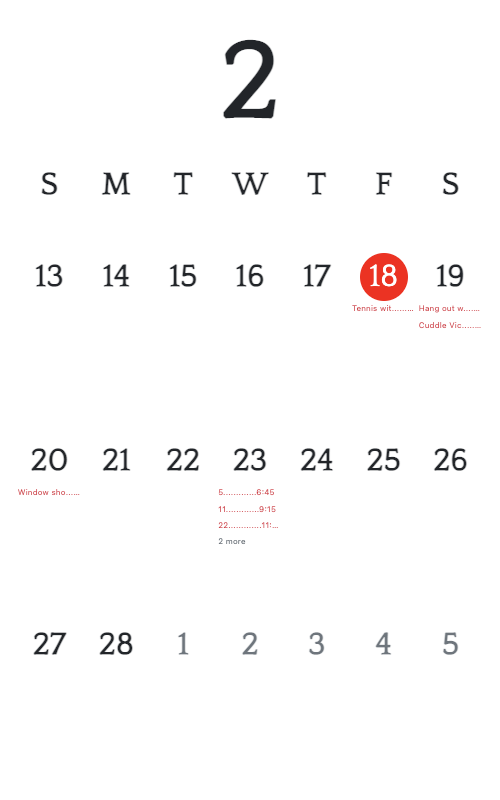
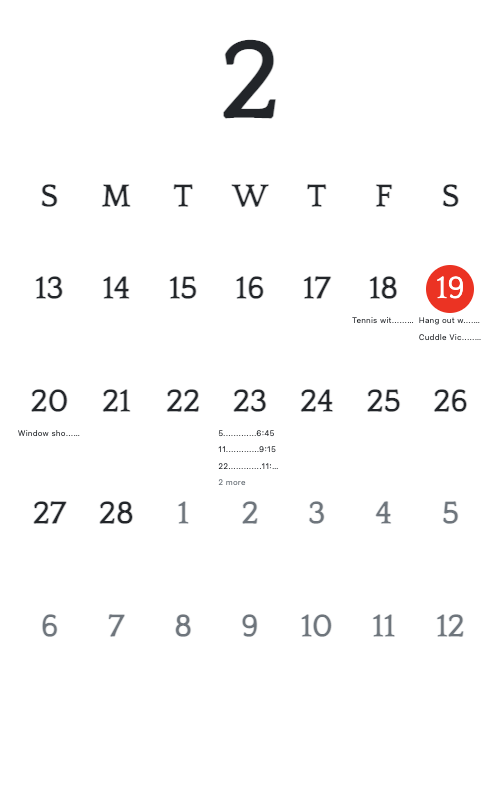
remove shadow

diff --git a/render/calendar.html b/render/calendar.html
@@ -6,7 +6,7 @@
 <body>
 <div class="container p-0 m-0">
     <!-- Calendar -->
-    <div class="calendar shadow bg-white p-3">
+    <div class="calendar bg-white p-3">
         <!-- Month -->
         <div class="align-items-center text-center"><h3 class="month font-weight-bold mb-0 text-uppercase">2</h3>
         </div>
@@ -38,17 +38,17 @@
                 <div class="date">17</div>
             </li>
             <li>
-                <div class="datecircle">18</div>
-                <div class="event text-danger">Tennis wit.............17:00</div>
+                <div class="date">18</div>
+                <div class="event">Tennis wit.............17:00</div>
             </li>
             <li>
-                <div class="date">19</div>
-                <div class="event text-danger">Hang out w.............10:00</div>
-                <div class="event text-danger">Cuddle Vic.............15:00</div>
+                <div class="datecircle">19</div>
+                <div class="event">Hang out w.............10:00</div>
+                <div class="event">Cuddle Vic.............15:00</div>
             </li>
             <li>
                 <div class="date">20</div>
-                <div class="event text-danger">Window sho.............11:00</div>
+                <div class="event">Window sho.............11:00</div>
             </li>
             <li>
                 <div class="date">21</div>
@@ -58,9 +58,9 @@
             </li>
             <li>
                 <div class="date">23</div>
-                <div class="event text-danger">5.............6:45</div>
-                <div class="event text-danger">11.............9:15</div>
-                <div class="event text-danger">22.............11:45</div>
+                <div class="event">5.............6:45</div>
+                <div class="event">11.............9:15</div>
+                <div class="event">22.............11:45</div>
                 <div class="event text-muted">2 more
             </li>
             <li>
@@ -113,27 +113,6 @@
             </li>
             <li>
                 <div class="date text-muted">12</div>
-            </li>
-            <li>
-                <div class="date text-muted">13</div>
-            </li>
-            <li>
-                <div class="date text-muted">14</div>
-            </li>
-            <li>
-                <div class="date text-muted">15</div>
-            </li>
-            <li>
-                <div class="date text-muted">16</div>
-            </li>
-            <li>
-                <div class="date text-muted">17</div>
-            </li>
-            <li>
-                <div class="date text-muted">18</div>
-            </li>
-            <li>
-                <div class="date text-muted">19</div>
             </li>
         </ol>
     </div>

diff --git a/render/calendar_template.html b/render/calendar_template.html
@@ -6,7 +6,7 @@
 <body>
 <div class="container p-0 m-0">
     <!-- Calendar -->
-    <div class="calendar shadow bg-white p-3">
+    <div class="calendar bg-white p-3">
         <!-- Month -->
         <div class="align-items-center text-center"><h3 class="month font-weight-bold mb-0 text-uppercase">{month}</h3>
         </div>

diff --git a/render/styles.css b/render/styles.css
@@ -128,7 +128,7 @@ Calendar Styling */
 
 .calendar .days li {
     /* min-height: 12rem; */
-    min-height: 11.5rem;
+    min-height: 7.05rem;
 }
 
 .calendar .days li .date {

diff --git a/render/render.py b/render/render.py
@@ -107,7 +107,8 @@ class RenderHelper:
         # calDict = {'events': eventList, 'calStartDate': calStartDate, 'today': currDate, 'lastRefresh': currDatetime, 'batteryLevel': batteryLevel}
         # first setup list to represent the 5 weeks in our calendar
         calList = []
-        for i in range(35):
+        weeks_to_display = 4
+        for i in range(weeks_to_display * 7):
             calList.append([])
 
         # retrieve calendar configuration
